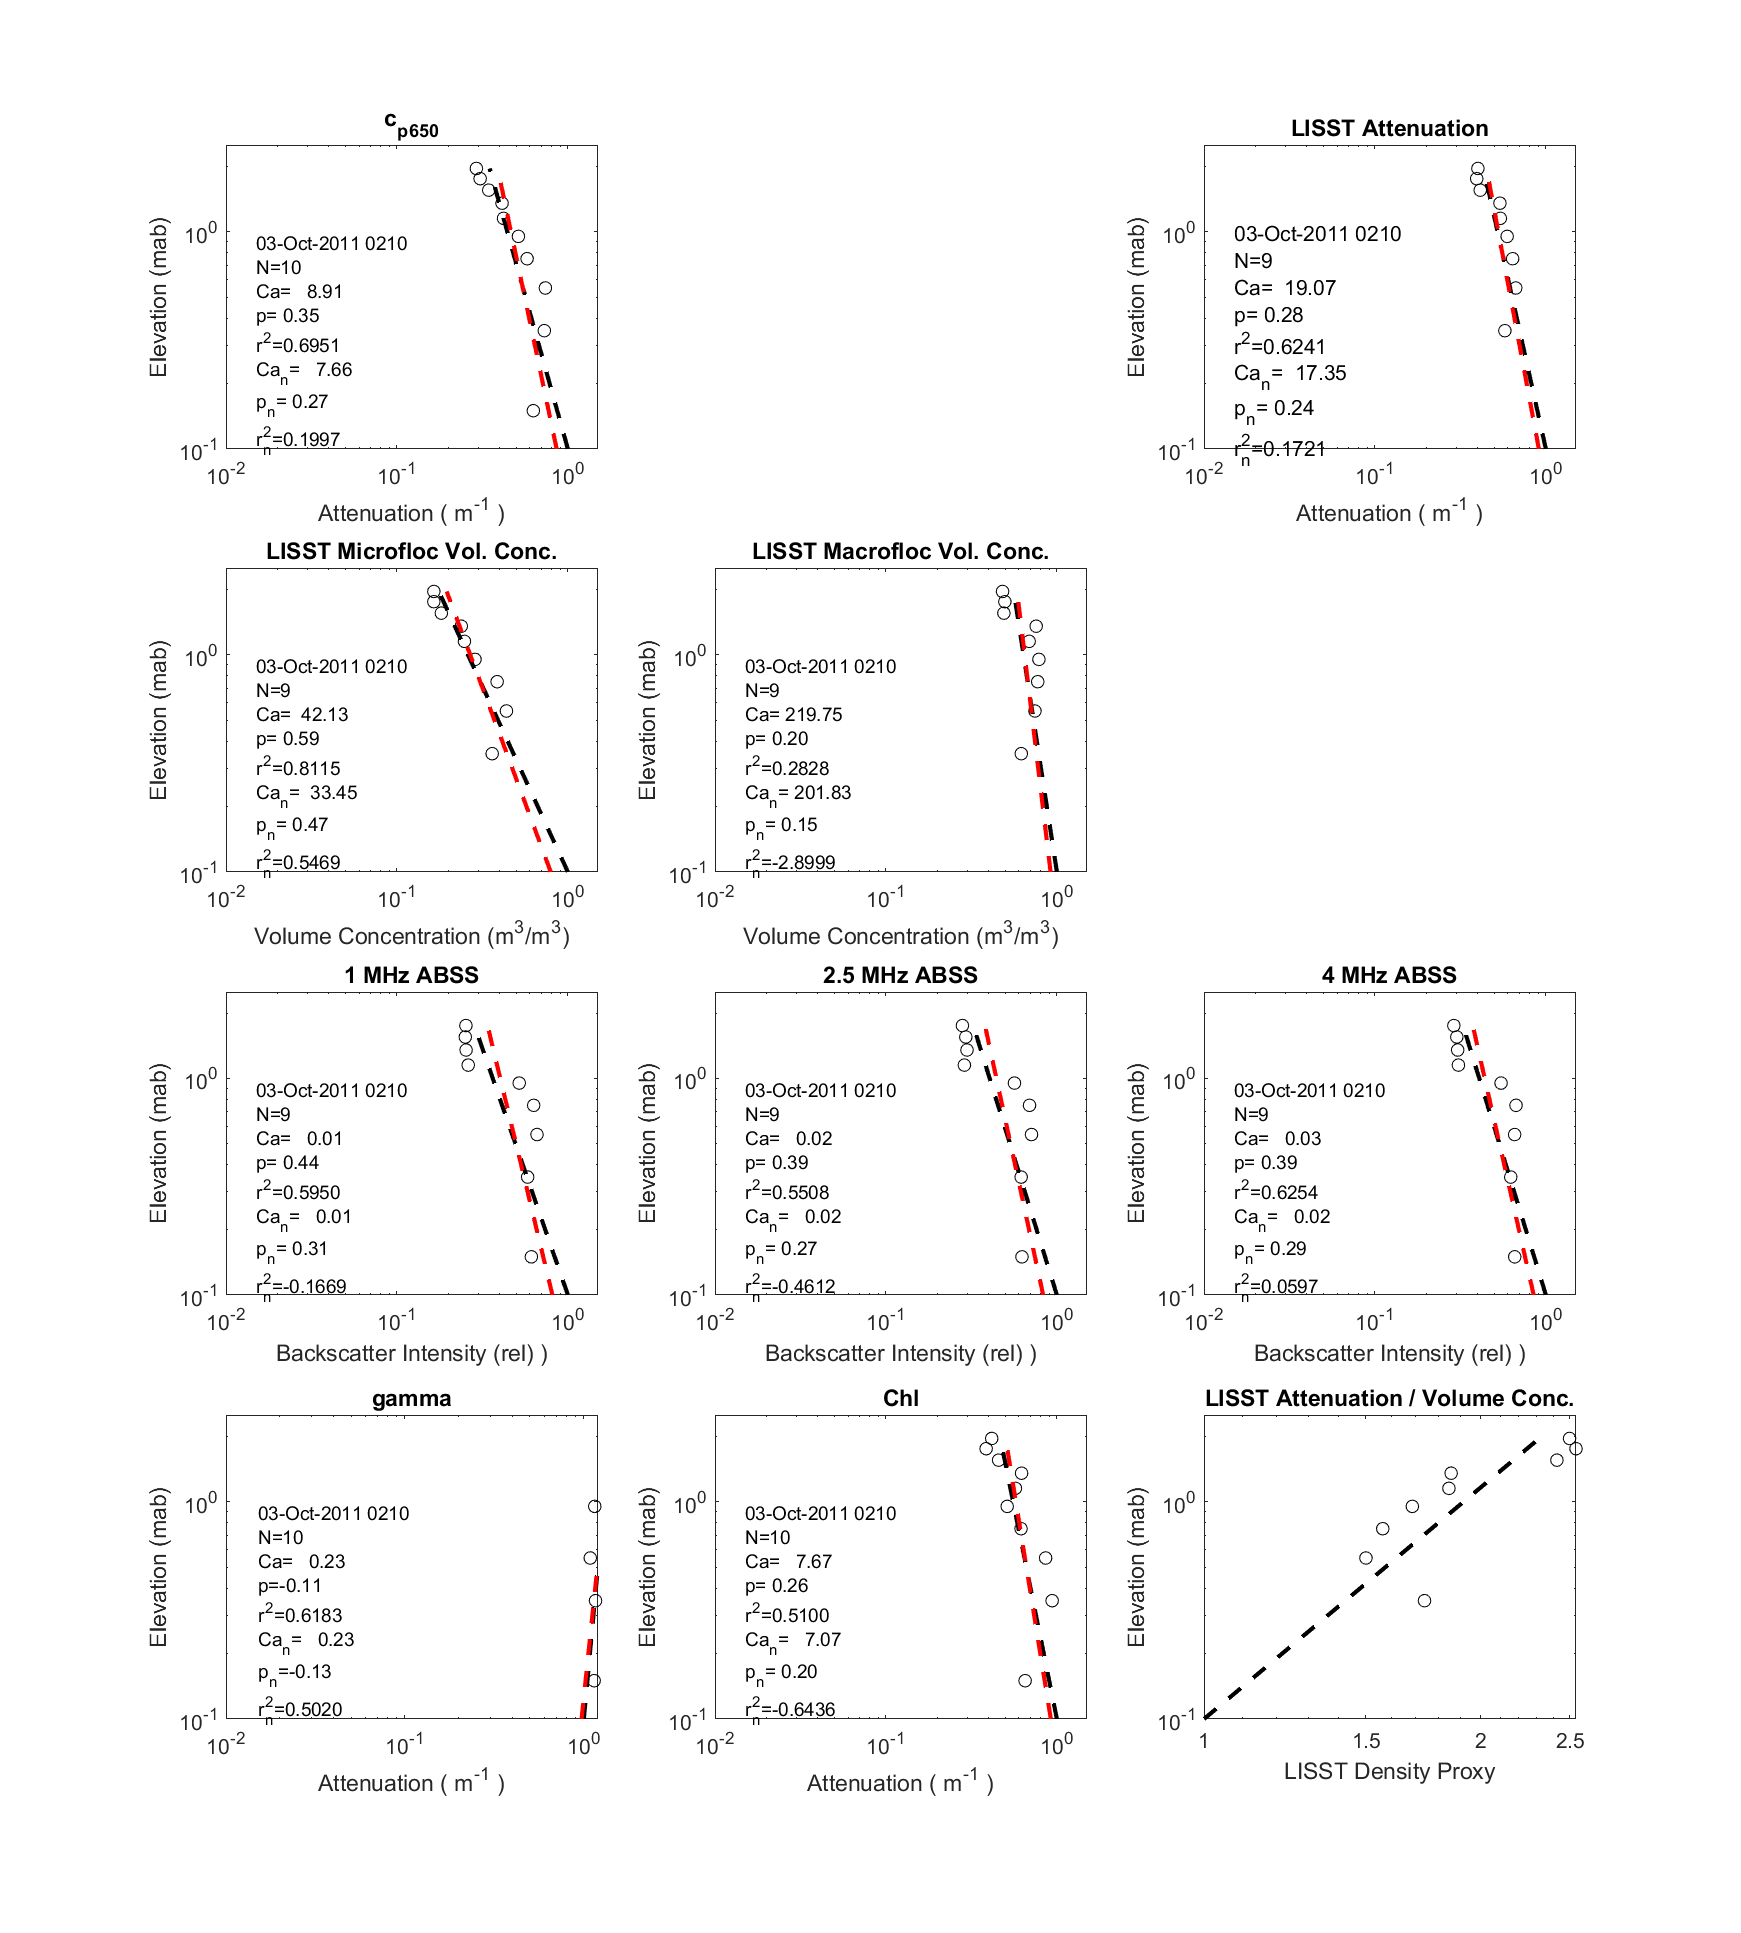
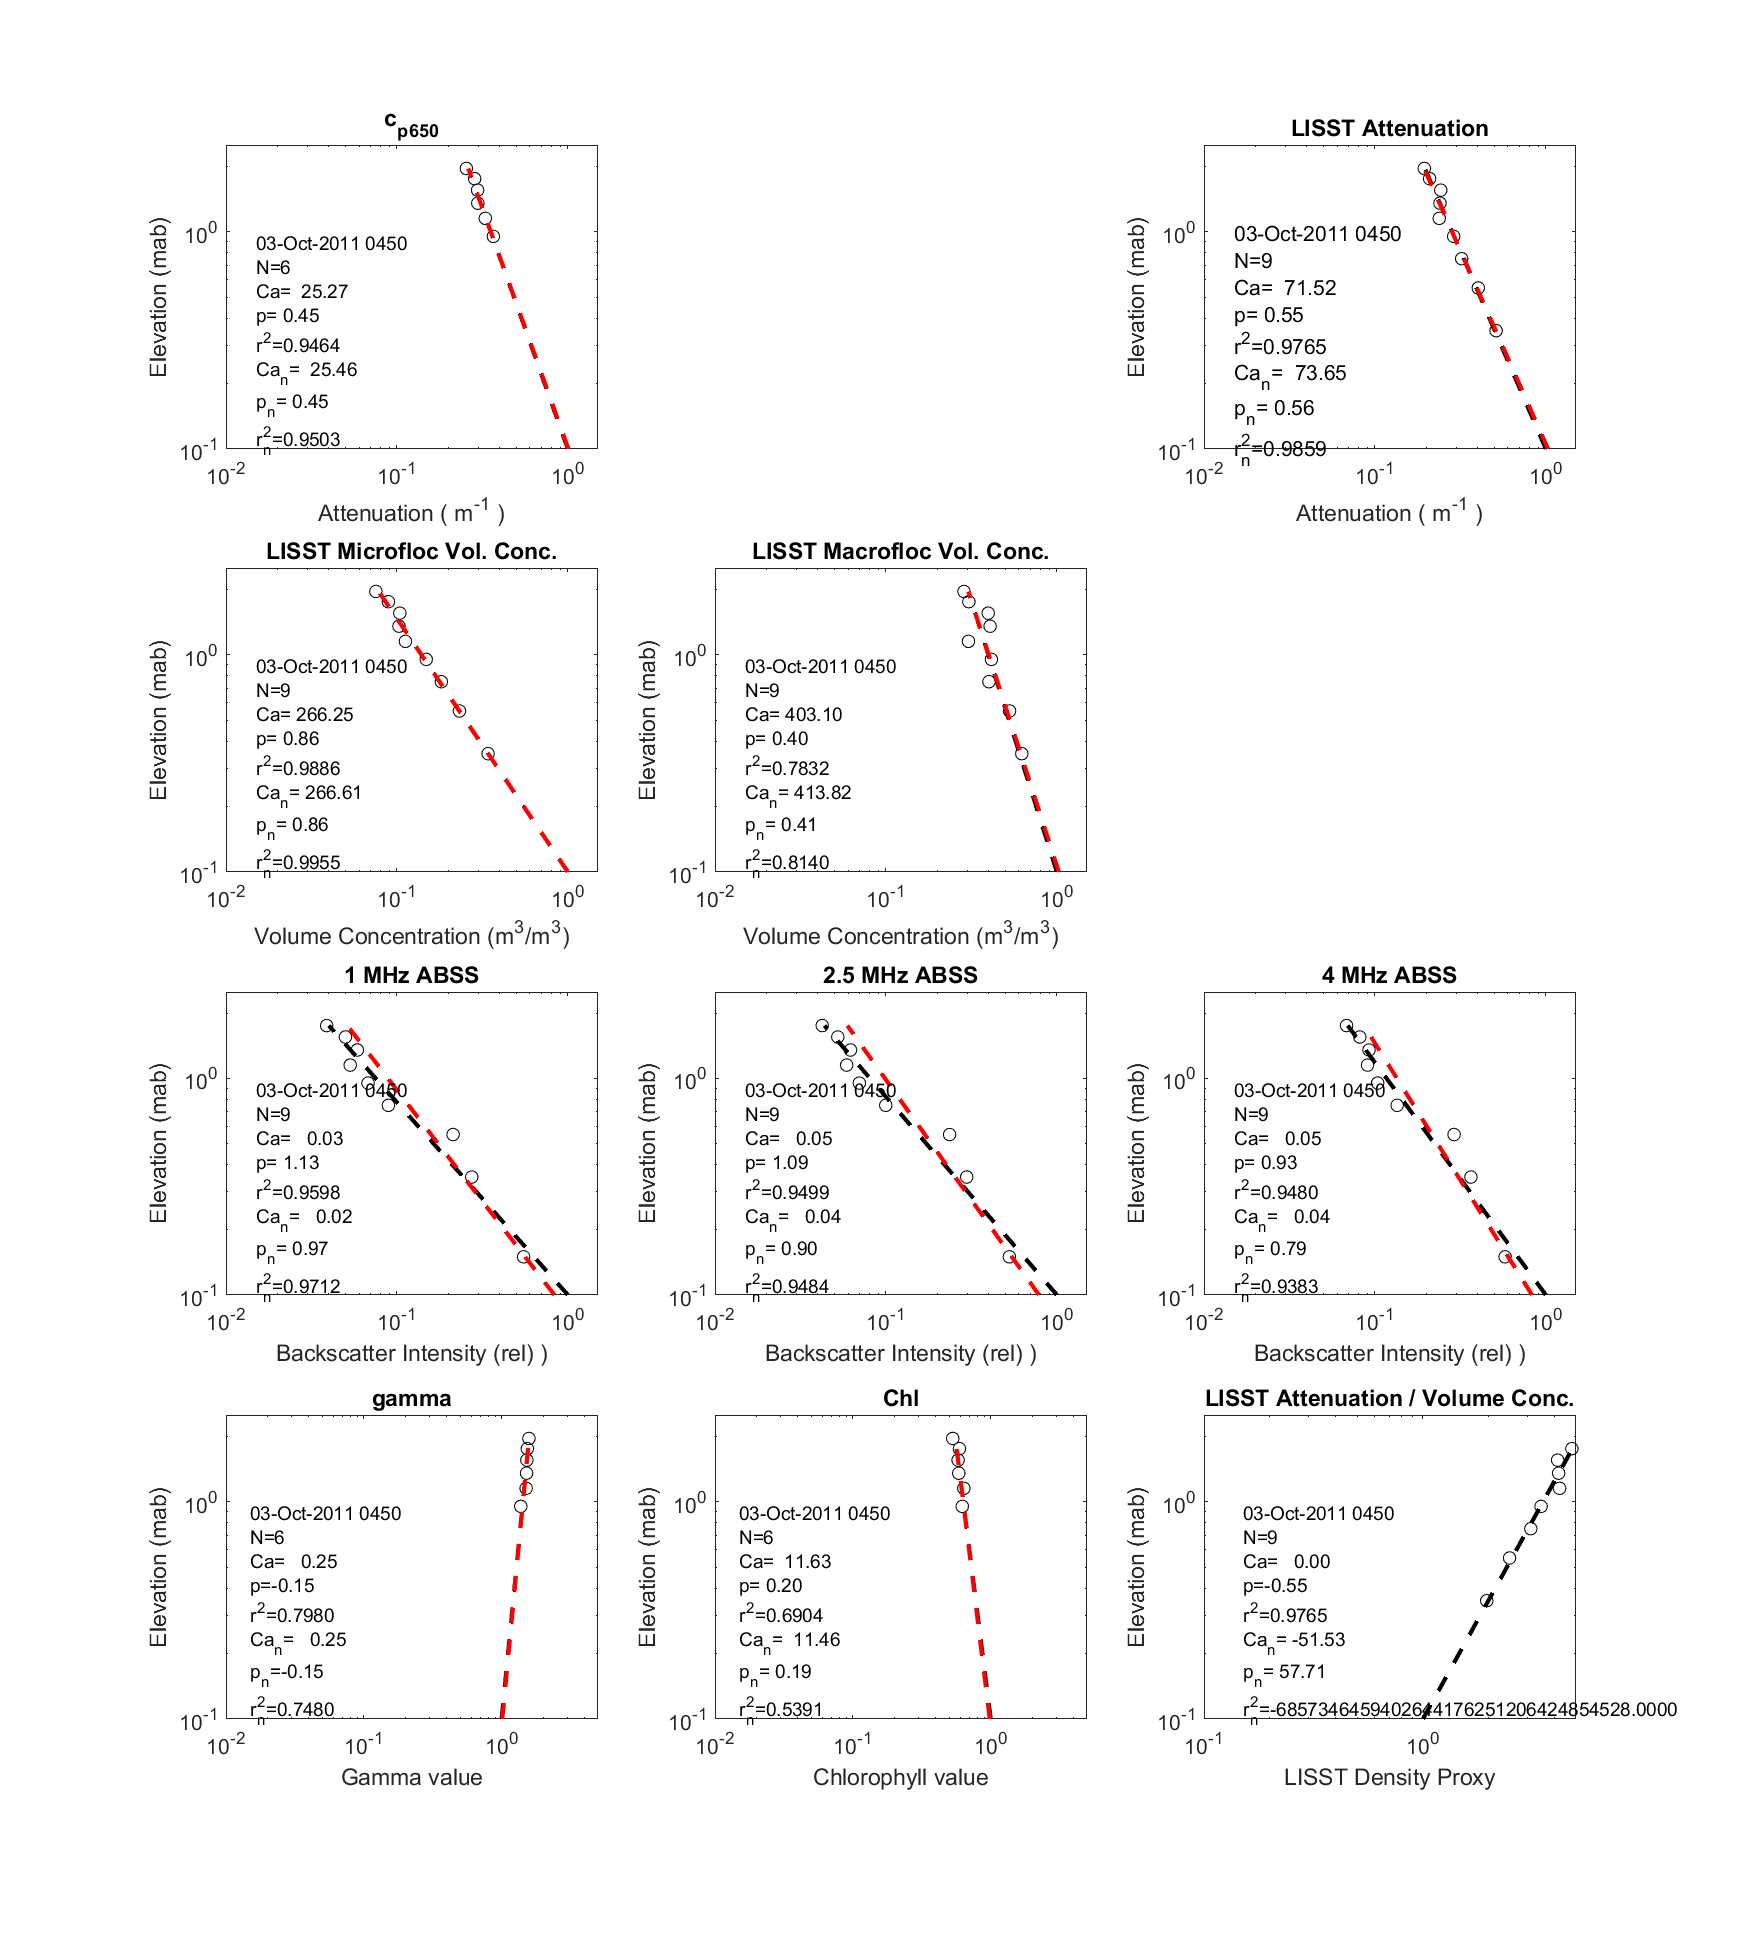
commit before making multiple plots

diff --git a/p_fit_times_mo.m b/p_fit_times_mo.m
@@ -28,7 +28,7 @@ load suspsed_ba20_20rstrim_crs_cen
 za = 0.1; % (m) Ca estimates standardized to this elevation
 nav = 0;  % number of profiles to left and right to be averaged
 %%
-ydt = 276.09; % list of target year days
+ydt = 276.2; % list of target year days
 dnt = datenum(2011,1,1)+ydt-1
 datestr(dnt)
 
@@ -134,7 +134,7 @@ for ino=[5]
         xlabel('Attenuation ( m^{-1} )');
         title(inst{ino,4});
         ts = sprintf('%s\nN=%d\nCa=%7.2f\np=% 5.2f\nr^2=%06.4f\nCa_n=%7.2f\np_n=% 5.2f\nr_n^2=%06.4f',...
-            datestr(t,'dd-mmm-yyyy HHMM'),pf.N,pf.Ca,-pf.p,pf.r2,pfnl.Ca,-pfnl.p,pfnl.r2);
+            datestr(t,'dd-mmm-yyyy HHMM'),pf.N,pf.Ca,-pf.p,pf.r2,pfnl.Ca,-pfnl.p,pfnl.r2)
         text(.015,.3,ts);
     end
 end
@@ -159,12 +159,12 @@ for ino=[3:4]
     t = nanmean(allt(:,i))
     tmin = nanmin(nanmin(allt(:,i)));
     tmax = nanmax(nanmax(allt(:,i)));
-    ok = (~isnan(c+z))
+    ok = (~isnan(c+z));
     
     if(sum(ok)>3)
         datestr(t)
-        datestr(tmin)
-        datestr(tmax)
+%         datestr(tmin)
+%         datestr(tmax)
         subplot(4,3,plotnum)
         pf = pfit( c(ok), z(ok),0, za);
         loglog(c(ok)./pf.Ca,z(ok),'ok')
@@ -184,14 +184,15 @@ for ino=[3:4]
         title(inst{ino,4});
         ts = sprintf('%s\nN=%d\nCa=%7.2f\np=% 5.2f\nr^2=%06.4f\nCa_n=%7.2f\np_n=% 5.2f\nr_n^2=%06.4f',...
             datestr(t,'dd-mmm-yyyy HHMM'),pf.N,pf.Ca,-pf.p,pf.r2,pfnl.Ca,-pfnl.p,pfnl.r2)
-        ht=text(.015,.3,ts)
-        set(ht,'fontsize',9)
+        ht=text(.015,.3,ts);
+        set(ht,'fontsize',9);
     end
 end
 
 %% LISST Vol. conc total
 plotnum=5;
 for ino=[1]
+    disp('LISST volume concentration')
     plotnum = plotnum+1;
     allt=ba.(inst{ino,1});
     allz=ba.(inst{ino,2});
@@ -205,20 +206,20 @@ for ino=[1]
     i = find(allt(6,:)>dnt,1,'first');
     
     c = allc(:,i);
-    c(c<1e-8)=NaN;
     varc = allvc(:,i);
     z = allz(:,i);
     disp([z,c,varc])
+    c(c<1e-8)=NaN;
     
-    t = nanmean(allt(:,i))
+    t = nanmean(allt(:,i));
     tmin = nanmin(nanmin(allt(:,i)));
     tmax = nanmax(nanmax(allt(:,i)));
-    ok = (~isnan(c+z))
+    ok = (~isnan(c+z));
     
     if(sum(ok)>3)
         datestr(t)
-        datestr(tmin)
-        datestr(tmax)
+%         datestr(tmin)
+%         datestr(tmax)
         subplot(4,3,plotnum)
         pf = pfit( c(ok), z(ok),0, za);
         loglog(c(ok)./pf.Ca,z(ok),'ok')
@@ -239,15 +240,16 @@ for ino=[1]
         title(inst{ino,4});
         ts = sprintf('%s\nN=%d\nCa=%7.2f\np=% 5.2f\nr^2=%06.4f\nCa_n=%7.2f\np_n=% 5.2f\nr_n^2=%06.4f',...
             datestr(t,'dd-mmm-yyyy HHMM'),pf.N,pf.Ca,-pf.p,pf.r2,pfnl.Ca,-pfnl.p,pfnl.r2)
-        ht = text(.015,.3,ts)
-        set(ht,'fontsize',9)
+        ht = text(.015,.3,ts);
+        set(ht,'fontsize',9);
     end
 end
 
 %% ABSS profiles
 plotnum=6;
 for ino=[13:15]
-    plotnum = plotnum+1
+    disp('ABSS')
+    plotnum = plotnum+1;
     allt=ba.(inst{ino,1});
     allz=ba.(inst{ino,2});
     allc=ba.(inst{ino,3});
@@ -262,15 +264,15 @@ for ino=[13:15]
     c = allc(:,i);
     varc = allvc(:,i);
     z = allz(:,i);
-    t = nanmean(allt(:,i))
+    t = nanmean(allt(:,i));
     tmin = nanmin(nanmin(allt(:,i)));
     tmax = nanmax(nanmax(allt(:,i)));
-    ok = (~isnan(c+z))
+    ok = (~isnan(c+z));
     
     if(sum(ok)>3)
         datestr(t)
-        datestr(tmin)
-        datestr(tmax)
+%         datestr(tmin)
+%         datestr(tmax)
         subplot(4,3,plotnum)
         pf = pfit( c(ok), z(ok),0, za);
         loglog(c(ok)./pf.Ca,z(ok),'ok')
@@ -292,15 +294,13 @@ for ino=[13:15]
         ts = sprintf('%s\nN=%d\nCa=%7.2f\np=% 5.2f\nr^2=%06.4f\nCa_n=%7.2f\np_n=% 5.2f\nr_n^2=%06.4f',...
             datestr(t,'dd-mmm-yyyy HHMM'),pf.N,pf.Ca,-pf.p,pf.r2,pfnl.Ca,-pfnl.p,pfnl.r2)
         ht=text(.015,.3,ts);
-        set(ht,'fontsize',9)
+        set(ht,'fontsize',9);
     end
 end
-
-
-
 %% UME gamma
 plotnum=9;
 for ino=[16]
+    disp('UME gamma')
     plotnum=plotnum+1;
     allt=ba.(inst{ino,1});
     allz=ba.(inst{ino,2});
@@ -311,12 +311,10 @@ for ino=[16]
     end
     
     if(ino==8 || ino==16) % no variance for Chl or gamma
-        allvc=ones(size(allc))
+        allvc=ones(size(allc));
     else
         allvc=vv.(inst{ino,3});
     end
-    dz = diff(allz(1:2,1));
-    [ nz nt ]= size( allz )
     
     % find target time
     i = find(allt(6,:)>dnt,1,'first');
@@ -324,15 +322,15 @@ for ino=[16]
     c = allc(:,i);
     varc = allvc(:,i);
     z = allz(:,i);
-    t = nanmean(allt(:,i))
+    t = nanmean(allt(:,i));
     tmin = nanmin(nanmin(allt(:,i)));
     tmax = nanmax(nanmax(allt(:,i)));
-    ok = (~isnan(c+z))
+    ok = (~isnan(c+z));
     
     if(sum(ok)>3)
         datestr(t)
-        datestr(tmin)
-        datestr(tmax)
+%         datestr(tmin)
+%         datestr(tmax)
         subplot(4,3,plotnum)
         pf = pfit( c(ok), z(ok),0, za);
         loglog(c(ok)./pf.Ca,z(ok),'ok')
@@ -347,20 +345,21 @@ for ino=[16]
         
         %xlim( [.5 500] )
         ylim( [.1 2.5] )
-        xlim( [.01, 1.2])
+        xlim( [.01, 5])
         ylabel('Elevation (mab)')
-        xlabel('Attenuation ( m^{-1} )');
+        xlabel('Gamma value');
         title(inst{ino,4});
         ts = sprintf('%s\nN=%d\nCa=%7.2f\np=% 5.2f\nr^2=%06.4f\nCa_n=%7.2f\np_n=% 5.2f\nr_n^2=%06.4f',...
             datestr(t,'dd-mmm-yyyy HHMM'),pf.N,pf.Ca,-pf.p,pf.r2,pfnl.Ca,-pfnl.p,pfnl.r2)
         ht = text(.015,.3,ts);
-        set(ht,'fontsize',9)
+        set(ht,'fontsize',9);
     end
 end
 
 %% UME chlorophyll
 plotnum=10;
 for ino=[8]
+    disp('UME chlorophyll')
     plotnum=plotnum+1;
     allt=ba.(inst{ino,1});
     allz=ba.(inst{ino,2});
@@ -370,7 +369,7 @@ for ino=[8]
         allc = allc/(nanmean(allc(:)));
     end
     if(ino==8 || ino==16) % no variance for Chl or gamma
-        allvc=ones(size(allc))
+        allvc=ones(size(allc));
     else
         allvc=vv.(inst{ino,3});
     end
@@ -381,15 +380,15 @@ for ino=[8]
     c = allc(:,i);
     varc = allvc(:,i);
     z = allz(:,i);
-    t = nanmean(allt(:,i))
+    t = nanmean(allt(:,i));
     tmin = nanmin(nanmin(allt(:,i)));
     tmax = nanmax(nanmax(allt(:,i)));
     ok = (~isnan(c+z));
     
     if(sum(ok)>3)
         datestr(t)
-        datestr(tmin)
-        datestr(tmax)
+%         datestr(tmin)
+%         datestr(tmax)
         subplot(4,3,plotnum)
         pf = pfit( c(ok), z(ok),0, za);
         loglog(c(ok)./pf.Ca,z(ok),'ok')
@@ -404,19 +403,20 @@ for ino=[8]
         
         %xlim( [.5 500] )
         ylim( [.1 2.5] )
-        xlim( [.01, 1.5])
+        xlim( [.01, 5])
         ylabel('Elevation (mab)')
-        xlabel('Attenuation ( m^{-1} )');
+        xlabel('Chlorophyll value');
         title(inst{ino,4});
         ts = sprintf('%s\nN=%d\nCa=%7.2f\np=% 5.2f\nr^2=%06.4f\nCa_n=%7.2f\np_n=% 5.2f\nr_n^2=%06.4f',...
             datestr(t,'dd-mmm-yyyy HHMM'),pf.N,pf.Ca,-pf.p,pf.r2,pfnl.Ca,-pfnl.p,pfnl.r2)
         ht=text(.015,.3,ts);
-        set(ht,'fontsize',9)
+        set(ht,'fontsize',9);
     end
 end
 %% LISST density - special case
 plotnum=11;
 for ino=[1]
+    disp('LISST density')
     plotnum = plotnum+1;
     allt=ba.(inst{ino,1});
     allz=ba.(inst{ino,2});
@@ -429,17 +429,20 @@ for ino=[1]
     i = find(allt(6,:)>dnt,1,'first');
 
     c = allc(:,i);
-    varc = allvc(:,i);
+    allv = sqrt(vv.(inst{1,3}).^2+vv.(inst{5,3}).^2);
+    varc = allv(:,i);
+
     z = allz(:,i);
     t = nanmean(allt(:,i));
     tmin = nanmin(nanmin(allt(:,i)));
     tmax = nanmax(nanmax(allt(:,i)));
-    ok = (~isnan(c+z))
+    ok = (~isnan(c+z));
+    disp([z c varc])
     
     if(sum(ok)>3)
         datestr(t)
-        datestr(tmin)
-        datestr(tmax)
+%         datestr(tmin)
+%         datestr(tmax)
         subplot(4,3,plotnum)
         pf = pfit( c(ok), z(ok),0, za);
         loglog(c(ok)./pf.Ca,z(ok),'ok')
@@ -454,13 +457,13 @@ for ino=[1]
         
         %xlim( [.5 500] )
         ylim( [.1 2.5] )
-        %xlim( [.01, 1.5])
+        xlim( [.1, 5])
         ylabel('Elevation (mab)')
         xlabel('LISST Density Proxy');
         title('LISST Attenuation / Volume Conc.');
         ts = sprintf('%s\nN=%d\nCa=%7.2f\np=% 5.2f\nr^2=%06.4f\nCa_n=%7.2f\np_n=% 5.2f\nr_n^2=%06.4f',...
             datestr(t,'dd-mmm-yyyy HHMM'),pf.N,pf.Ca,-pf.p,pf.r2,pfnl.Ca,-pfnl.p,pfnl.r2)
-        hs=text(.015,.3,ts);
+        hs=text(.15,.3,ts);
         set(hs,'fontsize',9);
     end
 end
